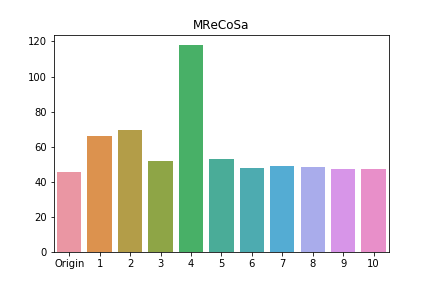
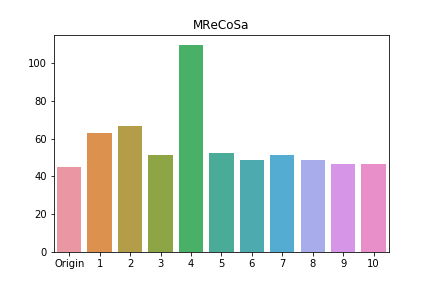
Sun Mar  1 19:07:29 CST 2020

diff --git a/metric/metric.py b/metric/metric.py
@@ -7,7 +7,7 @@ import argparse
 import codecs
 import numpy as np
 import math
-# from bert_score import score
+from bert_score import score
 from rouge import Rouge
 import os, re
 import ipdb
@@ -84,9 +84,7 @@ def cal_ROUGE(refer, candidate):
 
 def cal_BERTScore(refer, candidate):
     # too slow, fuck it
-    _, _, bert_scores = score(candidate, refer, lang='en')
-    # _, _, bert_scores = score(candidate, refer, 
-    #                           bert="bert-base-uncased", no_idf=True)
+    _, _, bert_scores = score(candidate, refer, lang='en', rescale_with_baseline=True)
     bert_scores = bert_scores.tolist()
     bert_scores = [0.5 if math.isnan(score) else score for score in bert_scores]
     return np.mean(bert_scores)

diff --git a/translate.py b/translate.py
@@ -33,10 +33,14 @@ from model.DSHRED import DSHRED
 from model.DSHRED_RA import DSHRED_RA
 from model.MReCoSa import MReCoSa
 from model.MReCoSa_RA import MReCoSa_RA
-from model.MTGCN import MTGCN
-from model.MTGAT import MTGAT
-from model.GatedGCN import GatedGCN
-from model.layers import *
+
+try:
+    from model.MTGCN import MTGCN
+    from model.MTGAT import MTGAT
+    from model.GatedGCN import GatedGCN
+    from model.layers import *
+except:
+    print(f'[!] cannot load module torch_geometric, ignore it')
 
 
 def translate(**kwargs):

diff --git a/train.py b/train.py
@@ -271,7 +271,7 @@ def translate(data_iter, net, **kwargs):
     l = round(total_loss / batch_num, 4)
     print(f'[!] write the translate result into {kwargs["pred"]}')
     print(f'[!] test loss: {l}, test ppl: {round(math.exp(l), 4)}', 
-          file=open(f'./processed/{kwargs["dataset"]}/{kwargs["model"]}/ppl.txt', 'a'))
+          file=open(f'./processed/{kwargs["dataset"]}/{kwargs["model"]}/trainlog.txt', 'a'))
     
     return math.exp(l)
 

diff --git a/eval.py b/eval.py
@@ -85,3 +85,4 @@ if __name__ == "__main__":
     print(f'EA: {round(ea_sum / counterp, 4)}')
     print(f'VX: {round(vx_sum / counterp, 4)}')
     print(f'GM: {round(gm_sum / counterp, 4)}')
+    # print(f'BERTScore: {round(bert_scores, 4)}')

diff --git a/README.md b/README.md
@@ -6,6 +6,9 @@ Welcome PRs and issues.
 ## TODO
 * CopyNet
 * Pointer Network
+* Memory Network
+* HVMN
+* Pure Transformer (in development, poor performance)
 
 ## Dataset 
 The preprocess script for these datasets can be found under `data/data_process` folder.
@@ -127,13 +130,13 @@ Translate a batch of models
 
 ```bash
 # get the BLEU and Distinct result of the generated sentences on 4th GPU (BERTScore need it)
-./run.sh eval <dataset> <model>
+./run.sh eval <dataset> <model> <cuda>
 ```
 
 Evaluate a batch of models
 ```bash
 # the performance are redirected into the file `./processed/<dataset>/<model>/final_result.txt`
-./run_batch_eval.sh 
+./run_batch_eval.sh <cuda>
 ```
 
 ### 8. Get the curve of all the training checkpoints (discard, tensorboard is all you need)
@@ -149,7 +152,7 @@ Refer to the paper: `Do Neural Dialog Systems Use the Conversation History Effec
 
 ```bash
 # 10 mode for perturbation
-./run.sh perturbation <dataset>
+./run.sh perturbation <dataset> <zh/en>
 ```
 
 ## Ready-to-use Models
